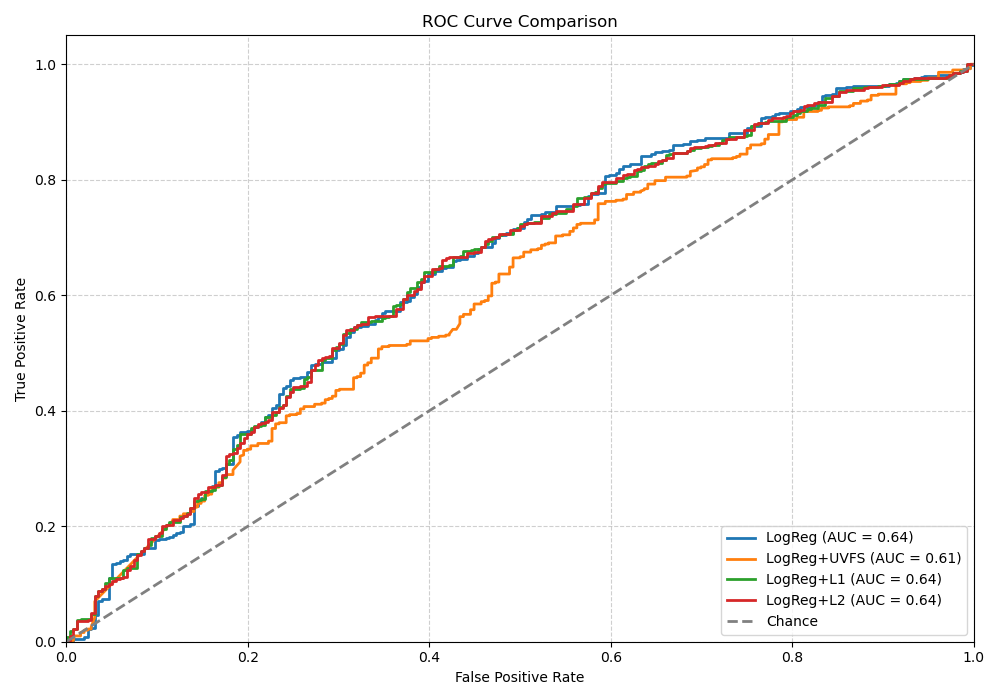
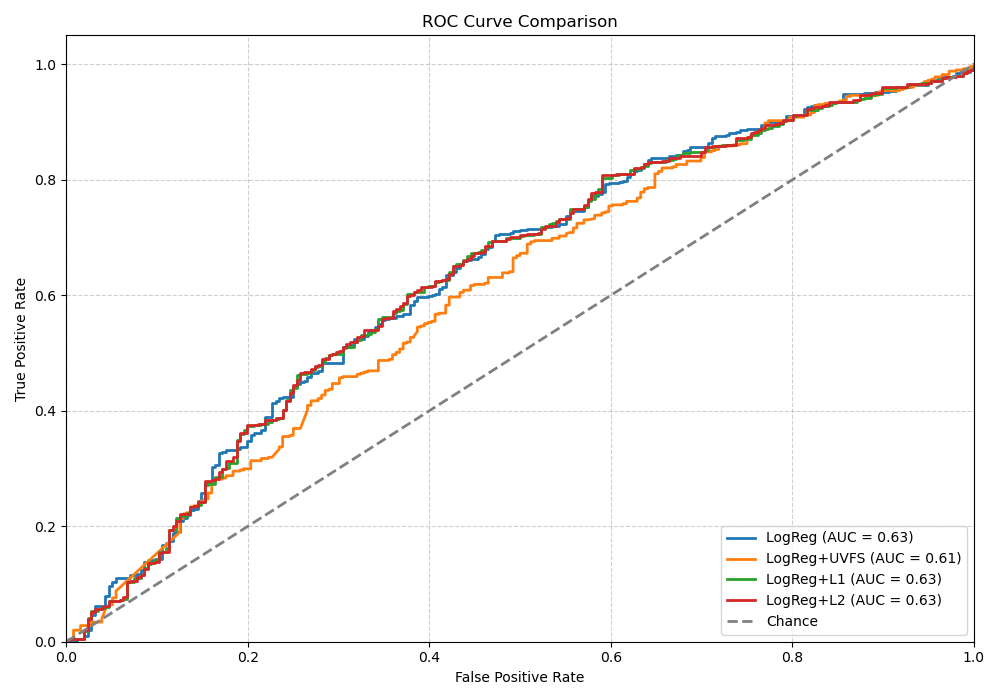
-

Changed region(s): [[0.062, 0.09, 0.992, 0.93]]

diff --git a/SVM.py b/SVM.py
@@ -83,7 +83,7 @@ else:
     stratify_col = y
 
 X_train, X_test, y_train, y_test = train_test_split(
-    X, y, test_size=0.2, random_state=10, stratify= stratify_col)  #for all years also stratify years
+    X, y, test_size=tt_size, random_state=10, stratify= stratify_col)  #for all years also stratify years
 
 ############################################################################################################
 
